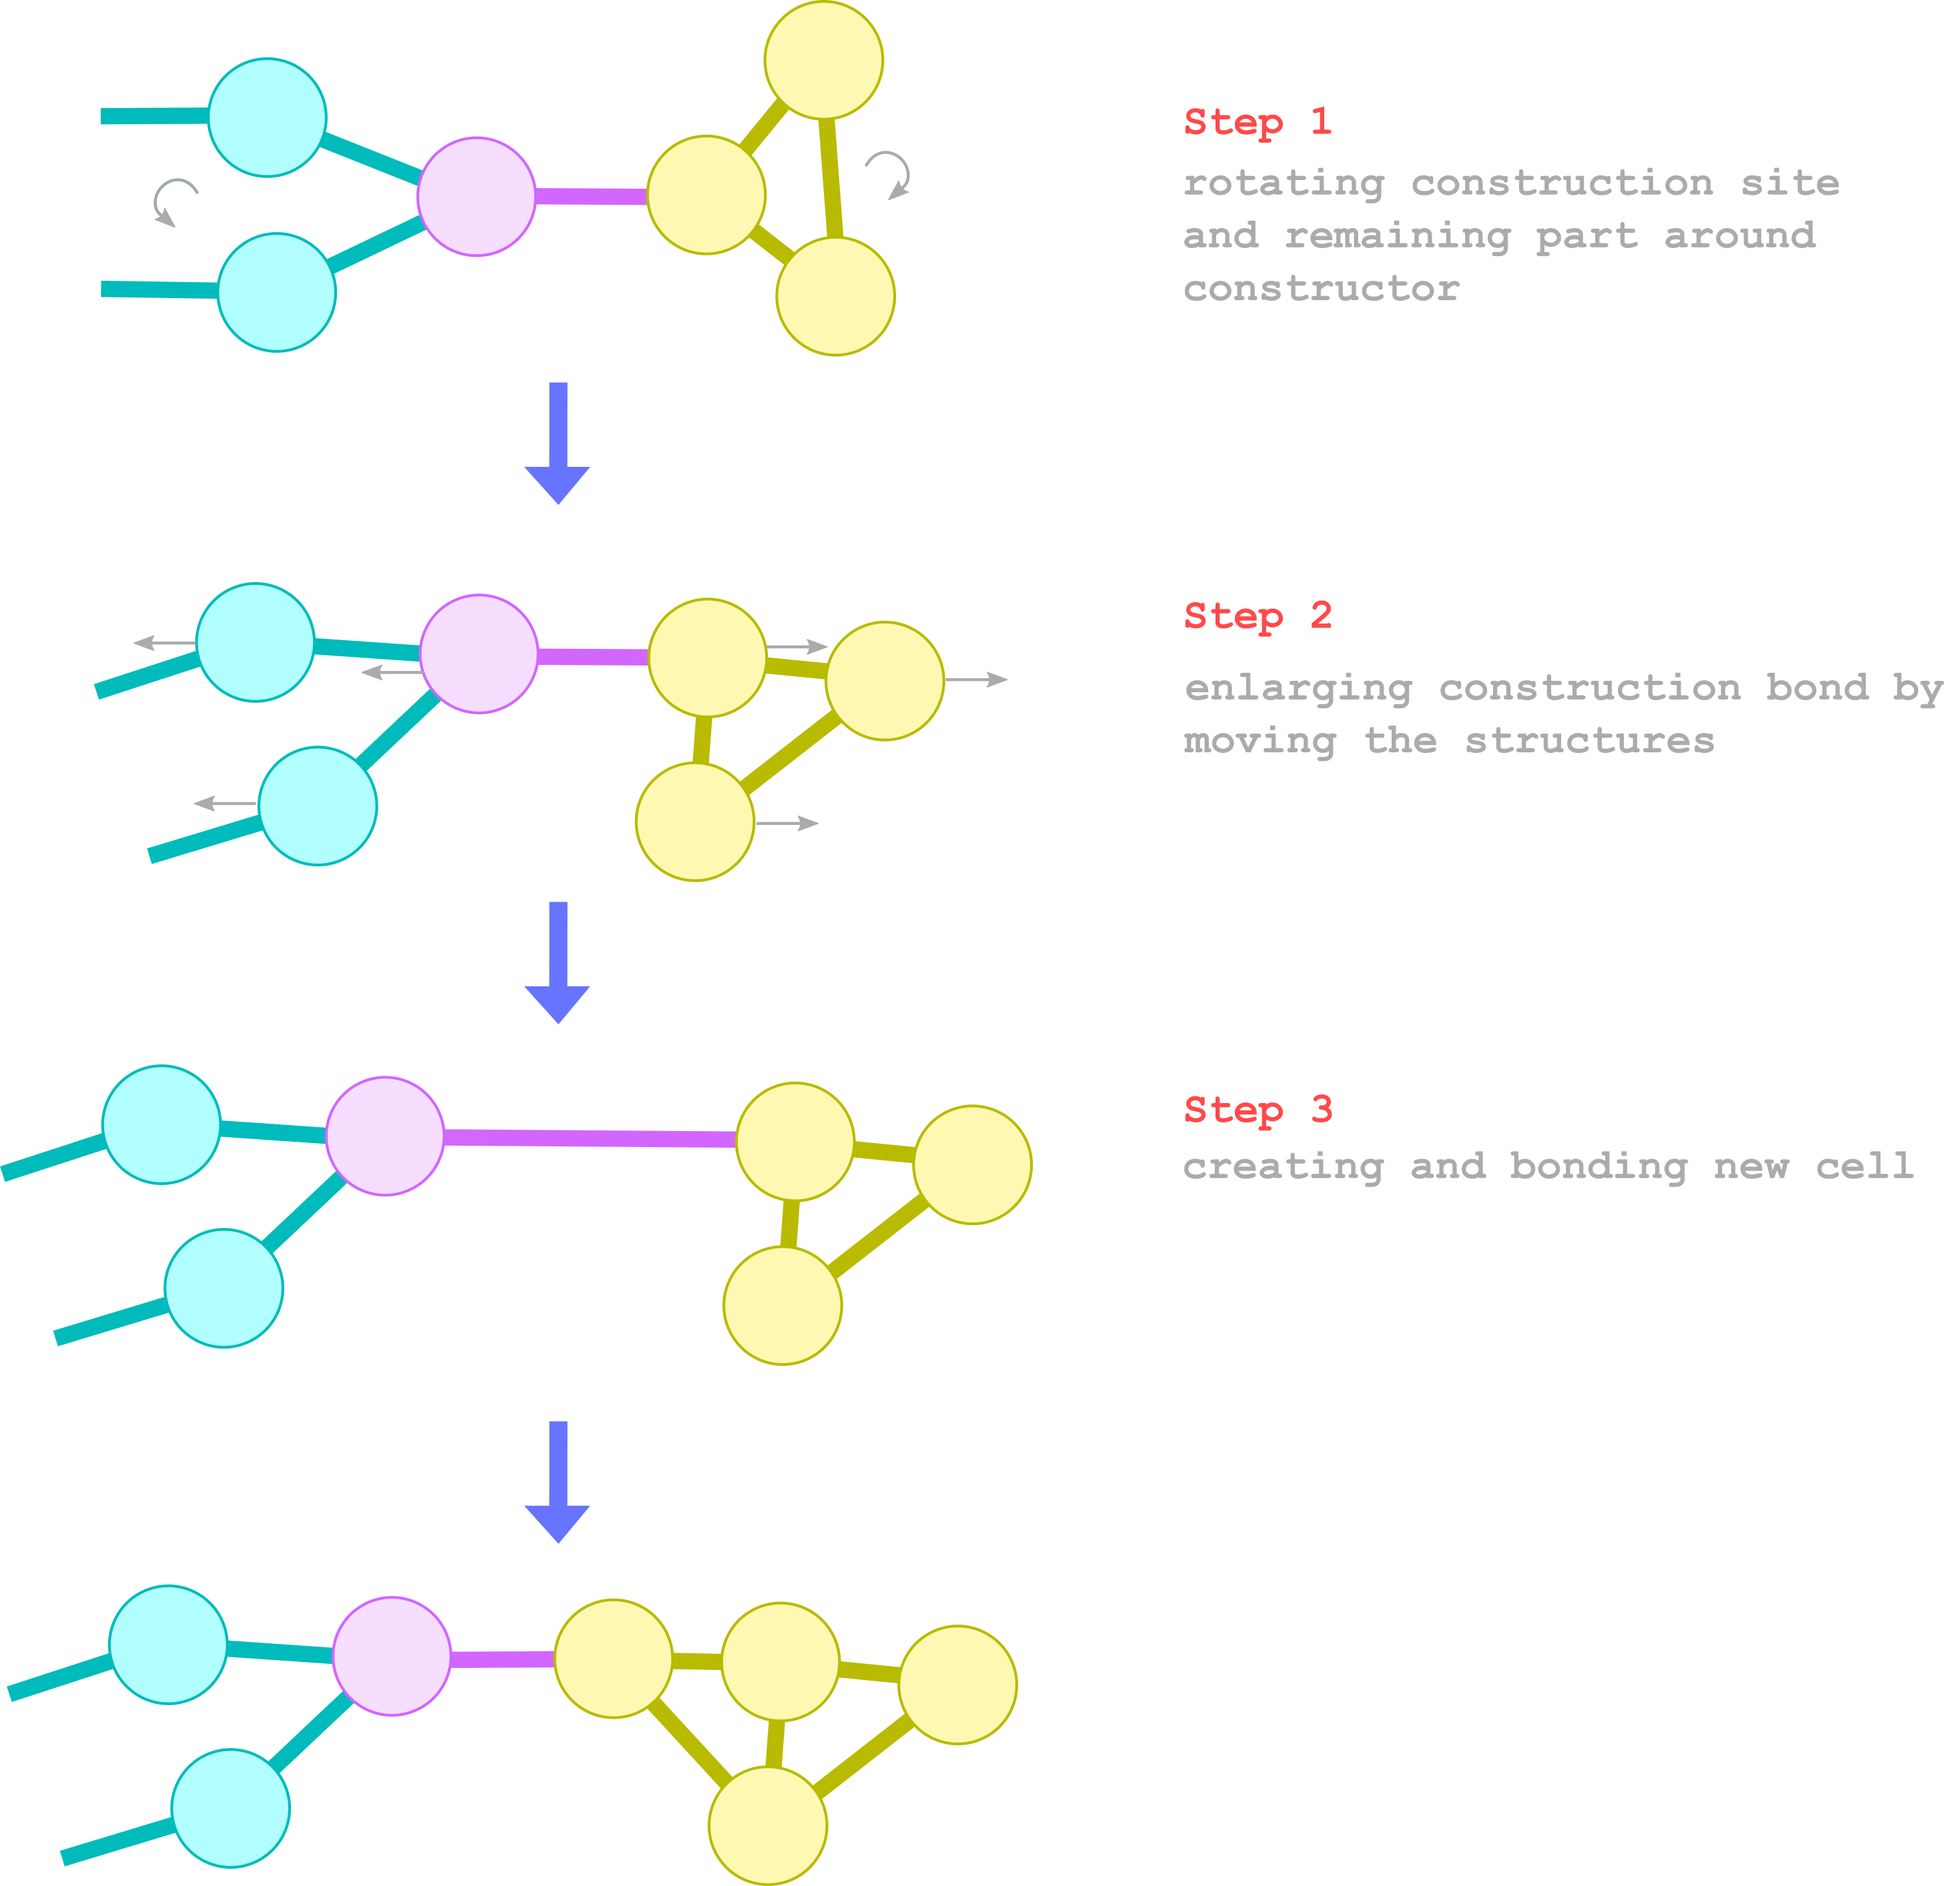
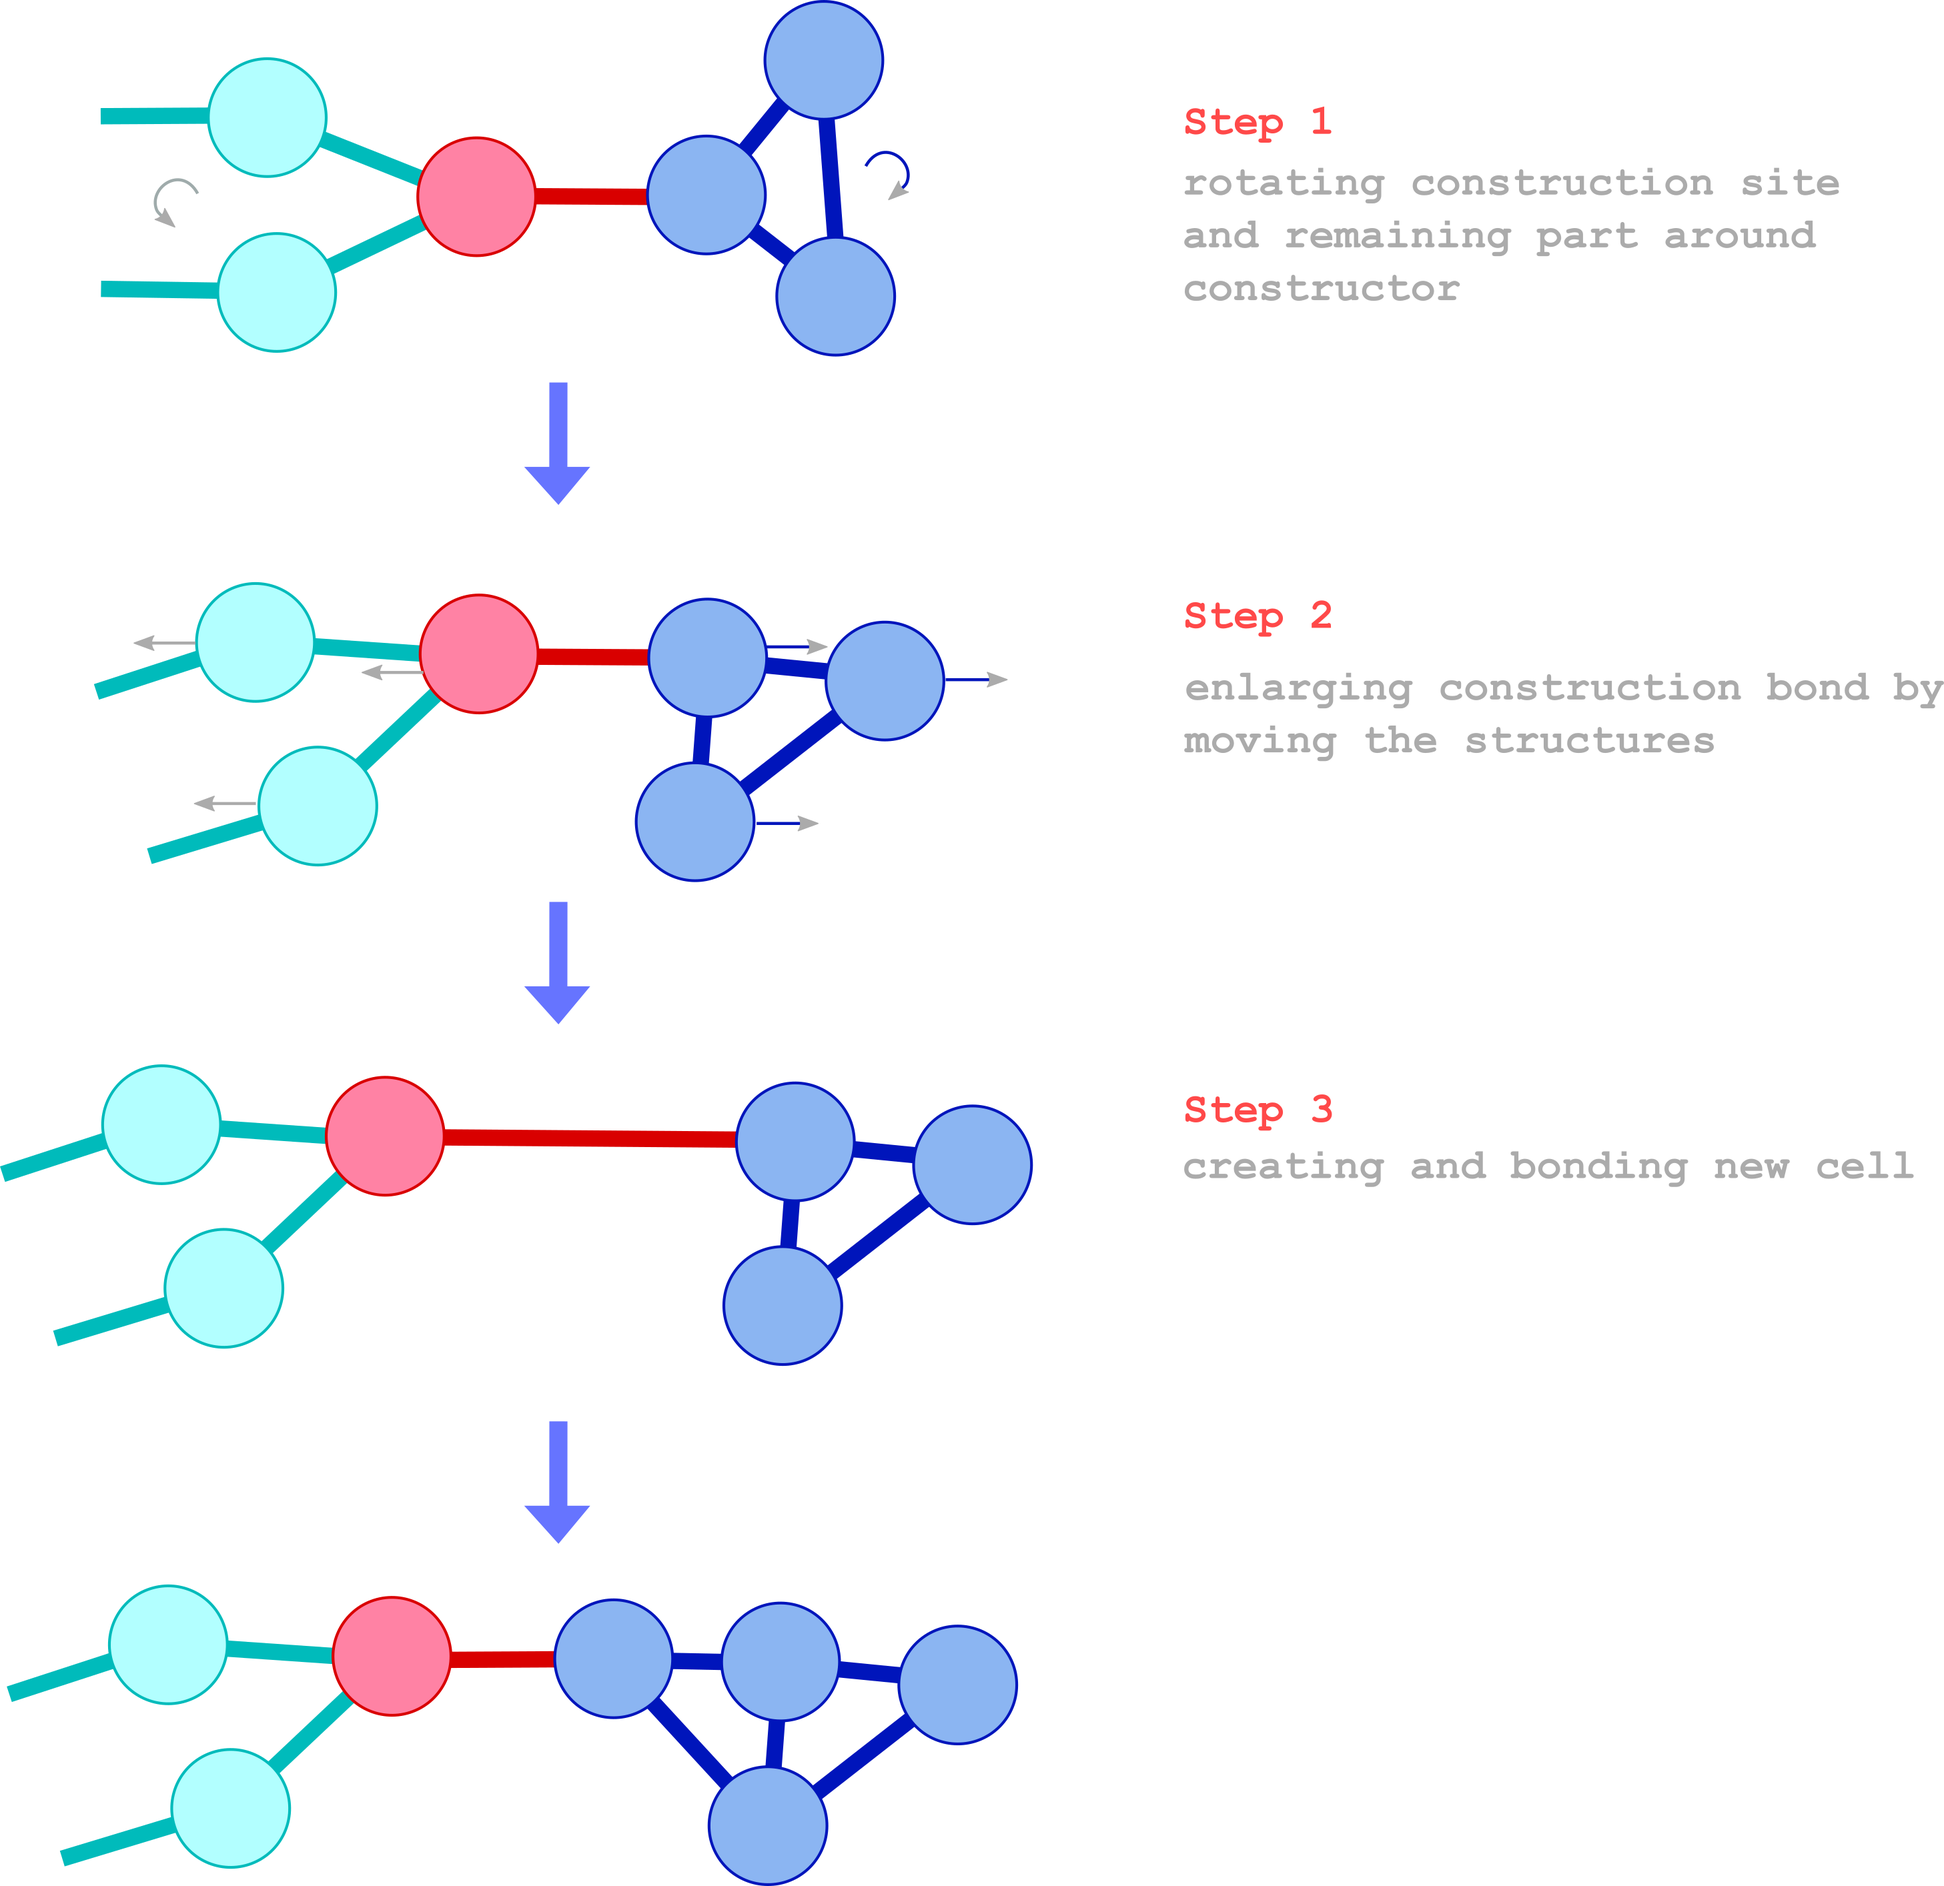
images enhanced; readme extended

diff --git a/README.md b/README.md
@@ -13,9 +13,12 @@ Please visit [alien-project.org](https://alien-project.org/documentation.html) f
 
 How to build
 ============
-You can build using Microsoft Visual Studio 2015. You need to install boost library version 1.65.1 in external/boost_1_65_1.
+You can build using Microsoft Visual Studio 2015. You need to install boost library version 1.65.1 in external/boost_1_65_1 as well as Qt 5.8 or higher.
 Please note that the GPU project in source/ModelGpu/ is not necessary to build alien.
-There are also binaries with installer for Microsoft Windows available at [alien-project.org](https://alien-project.org/download.html).
+
+Installer
+=========
+There is also a Windows installer with 64 bit binaries available at [alien-project.org](https://alien-project.org/download.html).
 
 License
 =======
